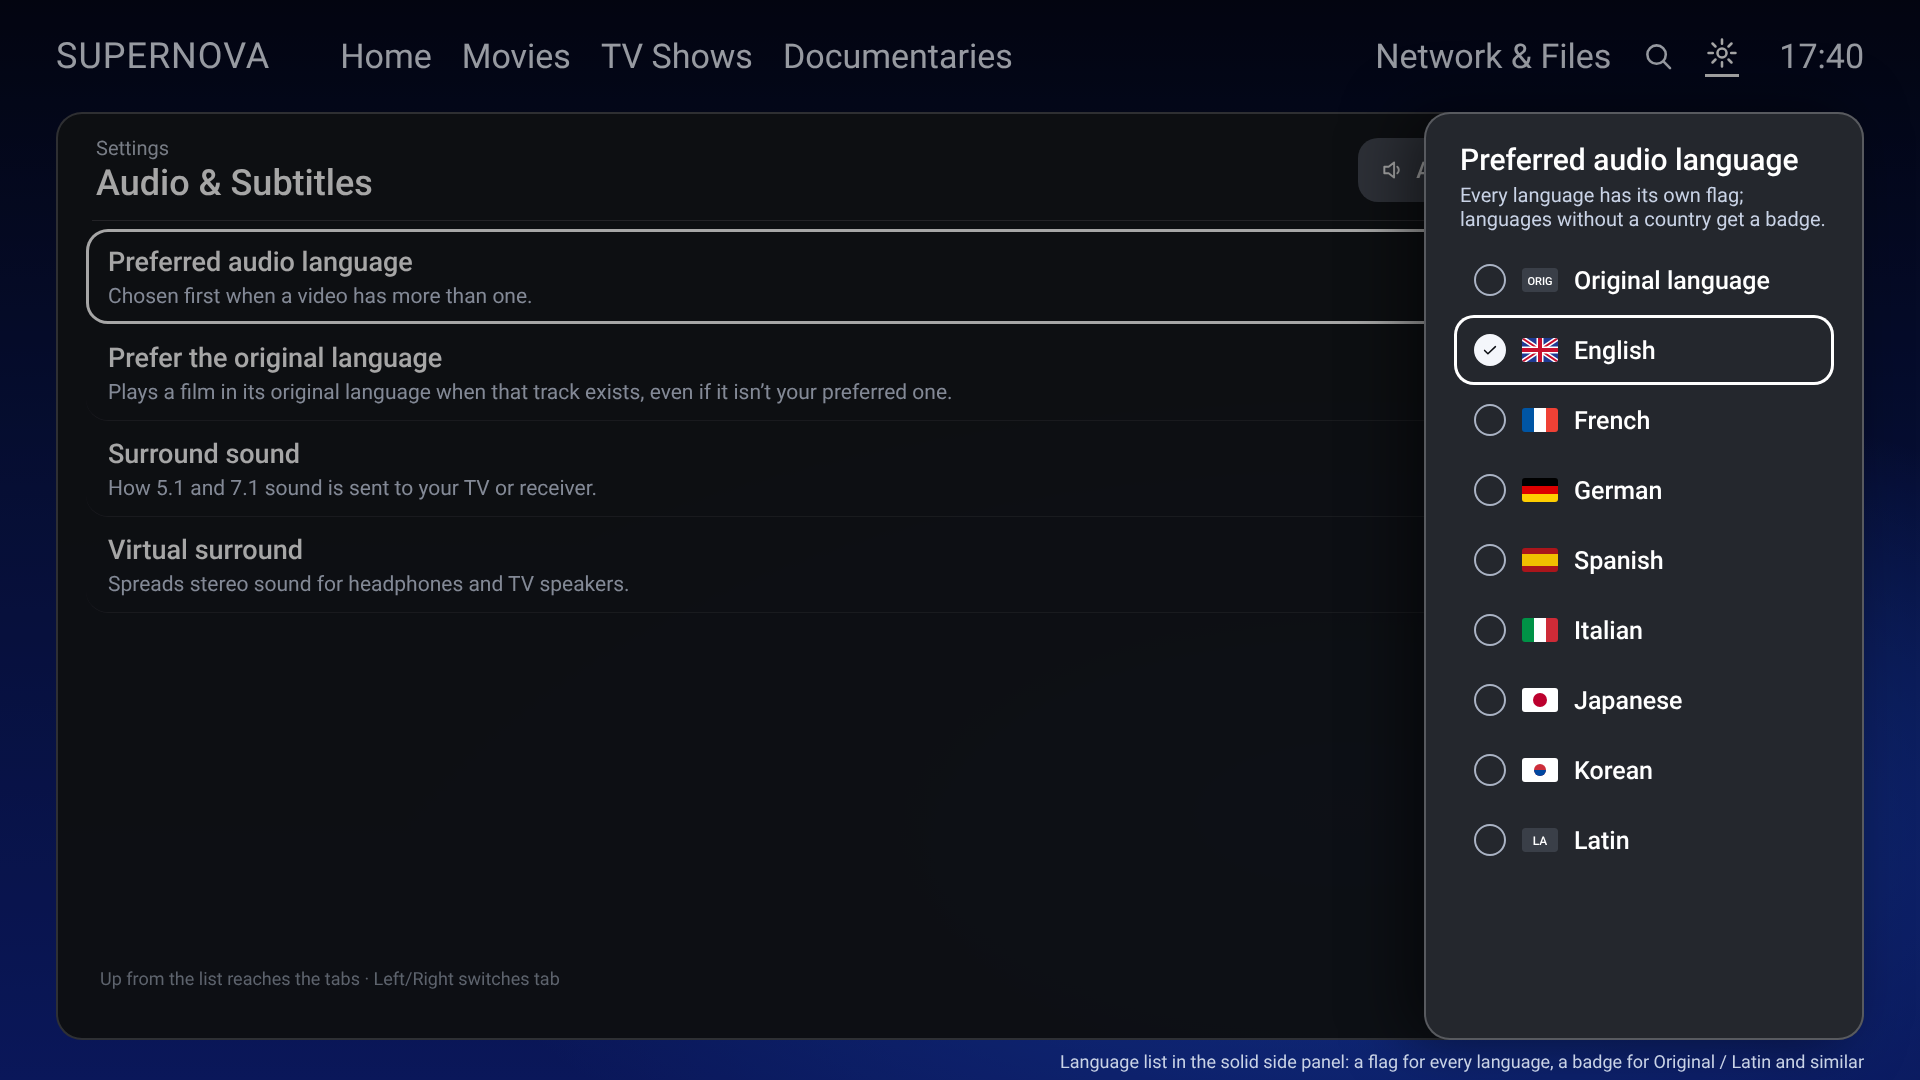
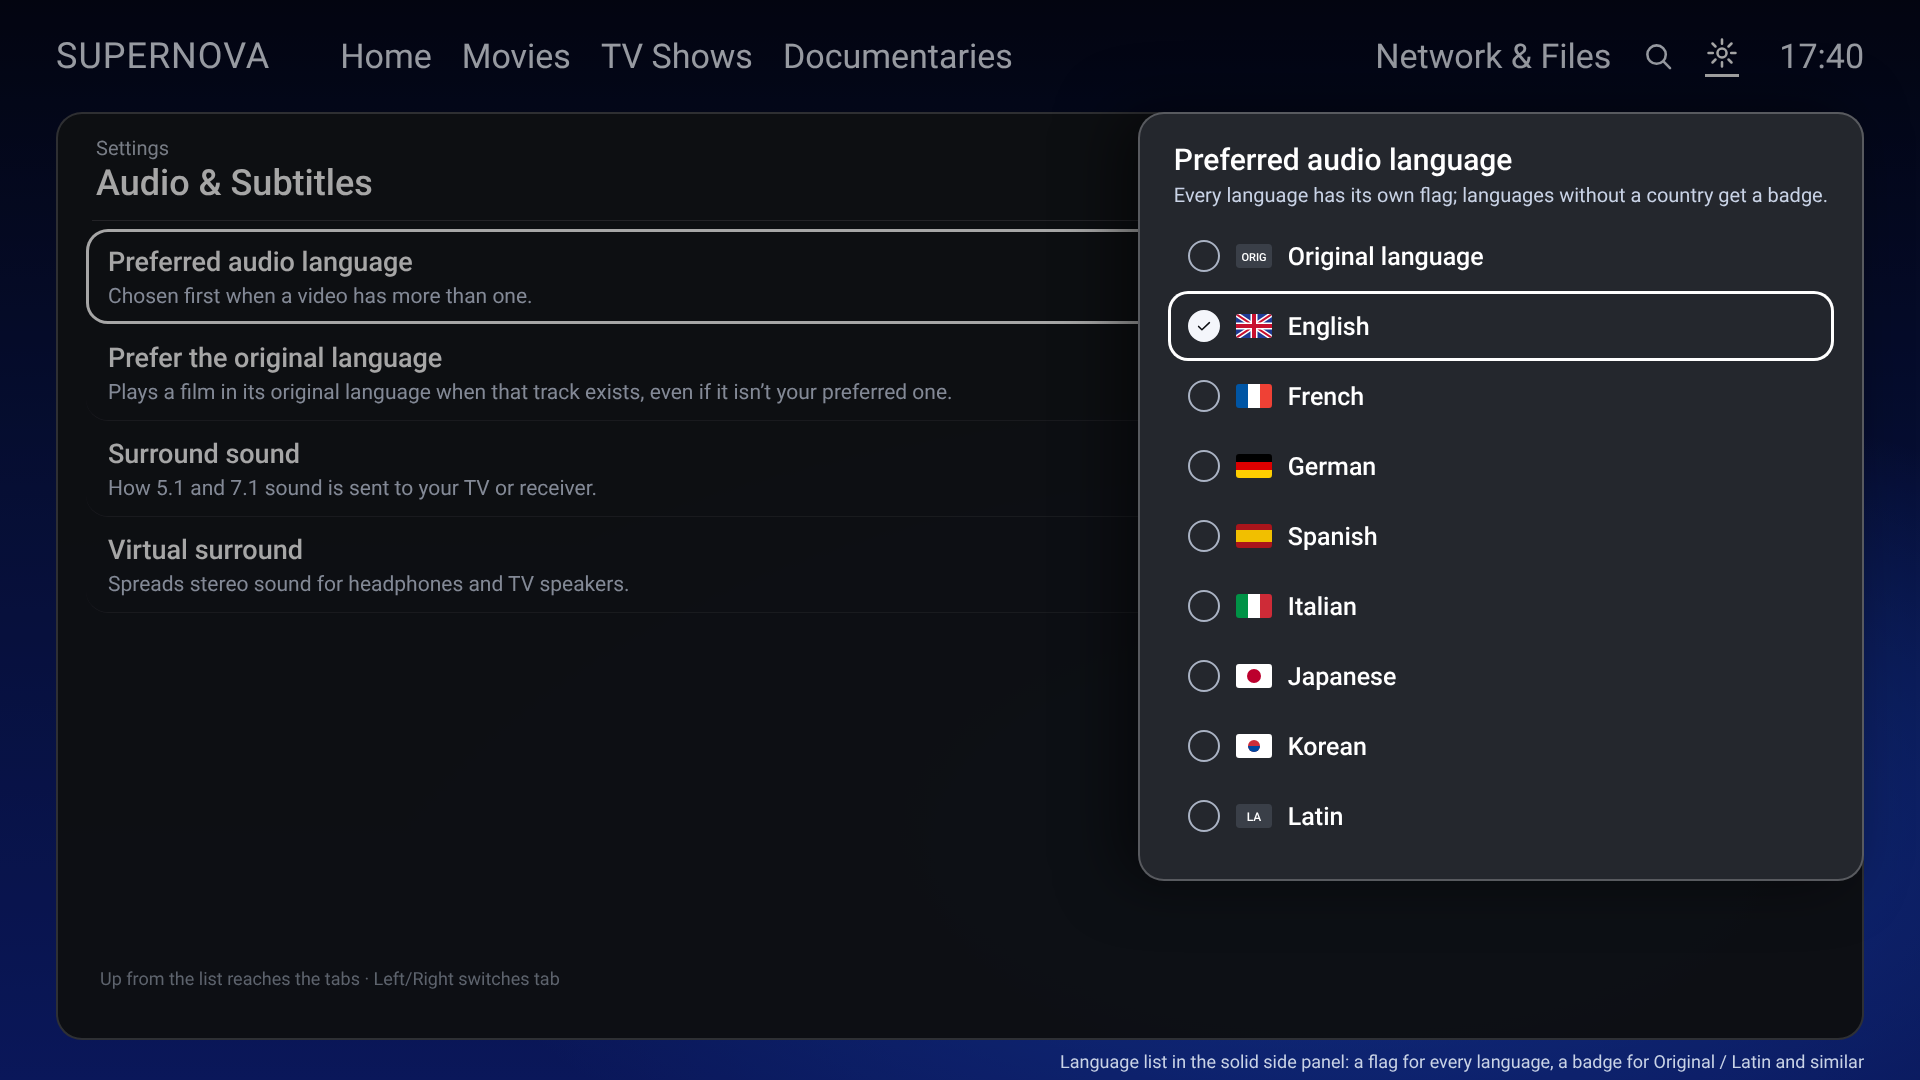
Rule: panels and pop-ups sized to their content; language list re-rendered
Claude-Session: https://claude.ai/code/session_01FtDZqamY6pdaUKwc7fqgiA

diff --git a/docs/design/proposals/settings/audio.js b/docs/design/proposals/settings/audio.js
@@ -68,7 +68,7 @@ body{width:1920px;height:1080px;overflow:hidden;font-family:R;color:#fff;positio
 .note{margin:18px 22px;font-size:20px;color:#aab3c4}
 .more{position:absolute;left:14px;bottom:0;font-size:18px;color:#8f98a8}
 .dim{position:absolute;inset:0;background:rgba(0,0,0,.35)}
-.panel{position:absolute;right:56px;top:112px;bottom:40px;width:440px;border-radius:26px;background:#24272d;border:2px solid rgba(255,255,255,.24);padding:28px;box-shadow:-20px 0 60px rgba(0,0,0,.5)}
+.panel{position:absolute;right:56px;top:112px;width:max-content;min-width:320px;max-height:928px;border-radius:26px;background:#24272d;border:2px solid rgba(255,255,255,.24);padding:28px;box-shadow:-20px 0 60px rgba(0,0,0,.5)}
 .ptitle{font-size:30px;font-weight:500;margin:0 6px 6px}.pdesc{font-size:20px;color:#c9d3e6;margin:0 6px 14px}
 .opt{display:flex;align-items:center;gap:16px;height:70px;padding:0 20px;border-radius:20px;font-size:25px;font-weight:500}.opt.f{box-shadow:inset 0 0 0 3px #fff}
 .rad{width:32px;height:32px;border-radius:50%;border:2px solid #aab3c4;display:flex;align-items:center;justify-content:center;flex:none}.rad.on{background:#F4F6FB;border-color:#F4F6FB;color:#0B0D12}

diff --git a/docs/0.155/OWNER_NOTES.md b/docs/0.155/OWNER_NOTES.md
@@ -12,6 +12,10 @@ Codex's branch `codex/0155-code-2026-11-04` (DP-01…DP-07, TV-only stages). **N
 > **How mock-ups are shown (owner, 4 Nov 2026):** only final mock-ups the owner needs to judge, sent once, as one
 > numbered group per question. Claude checks renders without opening them in the chat (no draft or check images).
 
+> **Panel and pop-up size rule (owner, 4 Nov 2026):** every list, choice panel and pop-up is only as big as its content
+> needs — width fits the longest entry plus padding, height fits the entries (scrolling only when they exceed the
+> screen). Applies app-wide, including the shared choice list (item 19.1).
+
 ## Confirmed fixed in 0.154 (owner)
 - Hero More Info icon dark on focus; no age rating or score on hero cards; hero readability improved; focused
   posters have one crisp outline; Playback Settings has no title and no row lines.
